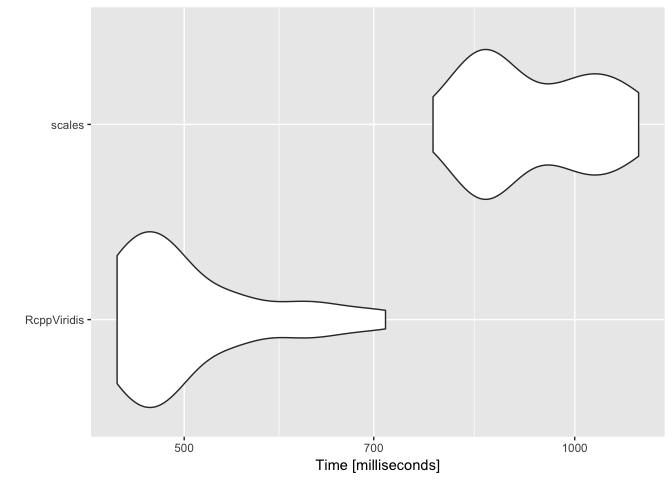
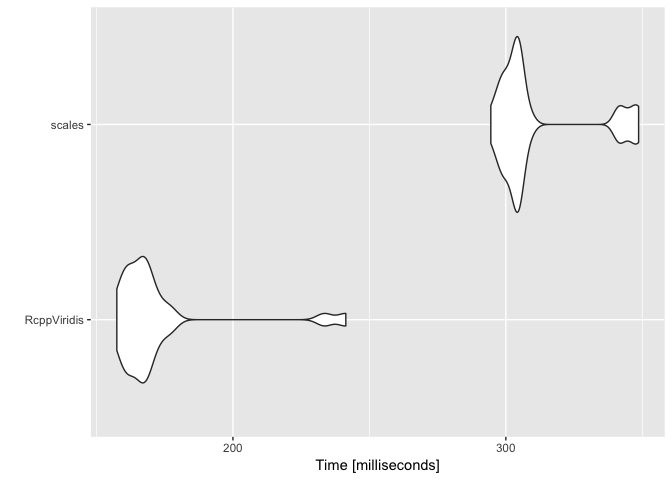
more tests

diff --git a/inst/include/RcppViridis/colours/colours_rgb.hpp b/inst/include/RcppViridis/colours/colours_rgb.hpp
@@ -52,13 +52,16 @@ Rcpp::NumericMatrix colour_values_to_rgb(
       b = round( spline_blue( this_x ) * 255 );
       a = alpha[i];
 
-      r = r < 0 ? 255 + r : r;
-      g = g < 0 ? 255 + g : g;
-      b = b < 0 ? 255 + b : b;
-
-      r = r > 255 ? r - 255 : r;
-      g = g > 255 ? g - 255 : g;
-      b = b > 255 ? b - 255 : b;
+      r = rcppviridis::palette_utils::validate_rgb_range( r );
+      g = rcppviridis::palette_utils::validate_rgb_range( g );
+      b = rcppviridis::palette_utils::validate_rgb_range( b );
+      // r = r < 0 ? 255 + r : r;
+      // g = g < 0 ? 255 + g : g;
+      // b = b < 0 ? 255 + b : b;
+      //
+      // r = r > 255 ? r - 255 : r;
+      // g = g > 255 ? g - 255 : g;
+      // b = b > 255 ? b - 255 : b;
 
       //hex_strings[i] = rcppviridis::convert::convert_rgb_to_hex(r, g, b, a);
       rgb_mat(i, _) = Rcpp::NumericVector::create(r,g,b,a);

diff --git a/inst/include/RcppViridis/palette_utils/palette_utils.hpp b/inst/include/RcppViridis/palette_utils/palette_utils.hpp
@@ -24,6 +24,15 @@ namespace palette_utils {
     }
   }
 
+  inline int validate_rgb_range( int x ) {
+    if ( x < 0 ) {
+      x += 255;
+    } else if ( x > 255 ) {
+      x -= 255;
+    }
+    return x;
+  }
+
   /*
    * rescale all vectors 0,1]
    */
@@ -64,9 +73,6 @@ namespace palette_utils {
     if (n_col == 4) {
       alpha = palette(_, 3);
     }
-
-    //Rcpp::Rcout << "alpha: " << alpha << std::endl;
-
     resolve_palette( red, green, blue, alpha );
   }
 

diff --git a/README.md b/README.md
@@ -199,6 +199,11 @@ library(microbenchmark)
 library(ggplot2)
 library(scales)
 library(viridisLite)
+# 
+# Attaching package: 'viridisLite'
+# The following objects are masked from 'package:RcppViridis':
+# 
+#     cividis, inferno, magma, plasma, viridis
 
 n <- 1e6
 df <- data.frame(x = rnorm(n = n))
@@ -210,11 +215,12 @@ m <- microbenchmark(
 )
 m
 # Unit: milliseconds
-#         expr      min       lq     mean   median        uq       max neval
-#  RcppViridis 427.9845 446.6185 469.9780 459.1266  468.8915  628.6237    25
-#       scales 801.8643 846.7193 938.5121 919.1626 1007.7639 1193.1294    25
+#         expr      min       lq     mean   median       uq      max neval
+#  RcppViridis 163.8603 165.5927 171.5584 168.9119 170.3885 215.3305    25
+#       scales 284.9327 291.6565 309.4799 295.6014 335.3427 368.3365    25
 
 autoplot(m)
+# Coordinate system already present. Adding new coordinate system, which will replace the existing one.
 ```
 
 <img src="man/figures/README-unnamed-chunk-10-1.png" width="100%" height="400" />
@@ -238,11 +244,12 @@ m <- microbenchmark(
 )
 m
 # Unit: milliseconds
-#         expr      min      lq     mean   median        uq       max neval
-#  RcppViridis 443.8625 462.939 510.6144 485.6111  533.4149  714.7436    25
-#       scales 777.6324 850.007 934.3971 886.6116 1021.3705 1120.0902    25
+#         expr      min       lq     mean   median       uq      max neval
+#  RcppViridis 168.3095 171.1390 178.8755 175.0209 176.7191 236.5239    25
+#       scales 293.3825 300.1235 314.2118 305.3097 307.3727 365.4191    25
 
 autoplot(m)
+# Coordinate system already present. Adding new coordinate system, which will replace the existing one.
 ```
 
 <img src="man/figures/README-unnamed-chunk-11-1.png" width="100%" height="400" />
